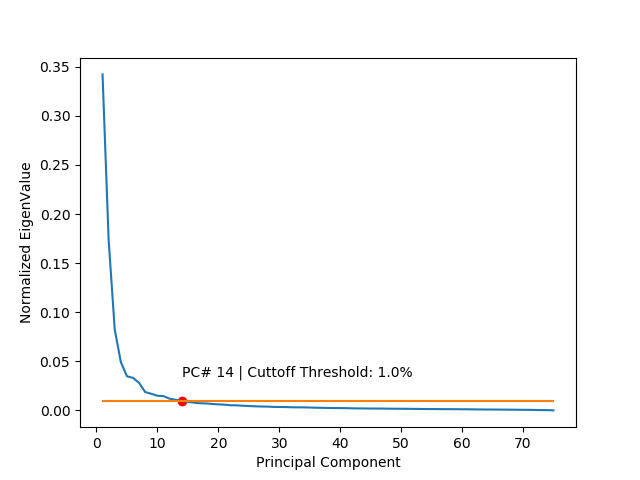
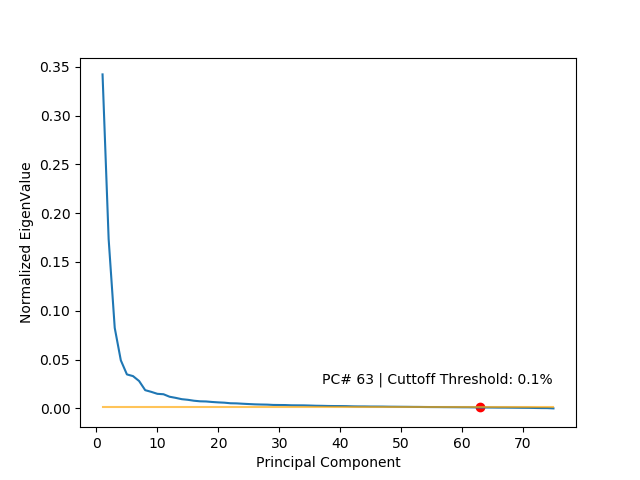
EigenFace reconstruction done, classification left

diff --git a/src/lib/EigenFaces/eigenfaces.py b/src/lib/EigenFaces/eigenfaces.py
@@ -38,7 +38,17 @@ def normalize_image(image):
 
     return np.asarray(normalized_img)
 
-def generate_PCA_Dimensionality_Estimation(data):
+def save_top5_eigenfaces(eigenfaces):
+    for i in range (0, 5):
+        plt.figure()
+        eigenfacetemp = normalize_image(eigenfaces[i])
+        eigenfacetemp = eigenfacetemp.reshape(256, 256, 3)
+        plt.imshow(eigenfacetemp)
+        plt.xticks([])
+        plt.yticks([])
+        plt.savefig("EigenFace"+str(i+1)+".png", transparent=True)
+
+def generate_PCA_Dimensionality_Estimation(data, threshold=0.001):
 
     pca = PCA(n_components=data.shape[0])
     pca.fit(data)
@@ -47,7 +57,7 @@ def generate_PCA_Dimensionality_Estimation(data):
     eigenvalue_eigenvector.sort(key=lambda x: x[1], reverse=True)
 
     idx = 0
-    cutoff_threshold = 0.01  # 1% cuttoff threshold
+    cutoff_threshold = threshold  # 0.1% cuttoff threshold
     for vals in eigenvalue_eigenvector:
         idx += 1
         if vals[2] < cutoff_threshold:
@@ -65,17 +75,19 @@ def generate_PCA_Dimensionality_Estimation(data):
     plt.plot(np.linspace(1, data.shape[0], num=data.shape[0]), pca.explained_variance_ratio_)
 
     plt.plot(np.linspace(1, data.shape[0], num=data.shape[0]),
-             np.linspace(cutoff_threshold, cutoff_threshold, num=data.shape[0]))
+             np.linspace(cutoff_threshold, cutoff_threshold, num=data.shape[0]), alpha=0.65, color='orange')
     plt.scatter(idx, cutoff_threshold, color='red')
-    plt.text(idx, cutoff_threshold + 0.025,
+    plt.text(int(data.shape[0]/2), cutoff_threshold + 0.025,
              s="PC# " + str(idx) + " | Cuttoff Threshold: " + str(cutoff_threshold * 100) + "%")
     plt.savefig('Individual-Variance.png')
+    plt.close()
 
     return idx
 
 
 if __name__ == "__main__":
 
+    # load data
     data = data_loader.get_data(isCropped=False)
 
     X_train = data[0]
@@ -91,20 +103,70 @@ if __name__ == "__main__":
     X_train_flat = flatten_and_gscale(X_train)
     X_test_flat  = flatten_and_gscale(X_test)
 
+    # get a dimensionality estimation
     optimal_dims = generate_PCA_Dimensionality_Estimation(X_train_flat)
 
-   # pca = PCA(n_components=optimal_dims)
-    #pca.fit(data)
+    # run PCA with the optimal number of dimensions
+    pca = PCA(n_components=optimal_dims)
+    # fit our data
+    pca.fit(X_train_flat)
 
-    #eigenvalue_eigenvector = list(zip(pca.components_, pca.explained_variance_, pca.explained_variance_ratio_))
-    #eigenvalue_eigenvector.sort(key=lambda x: x[1], reverse=True)
+    # sort eigenvectors by eigenvalue
+    eigenvalue_eigenvector = list(zip(pca.components_, pca.explained_variance_, pca.explained_variance_ratio_))
+    eigenvalue_eigenvector.sort(key=lambda x: x[1], reverse=True)
 
-    # print(eigenspaceData.shape)
-    # print(np.shape(eigenspaceData))
+    # separate them
+    eigenvectors = np.asarray([x[0] for x in eigenvalue_eigenvector])
+    eigenvalues  = np.asarray([x[1] for x in eigenvalue_eigenvector])
+
+    # save the top 5 eigen faces
+    save_top5_eigenfaces(eigenvectors)
+
+    # get the mean face
+    mean_face = pca.mean_
+
+
+    # testing eigenface reconstruction with one image
+    eigenImages = pca.transform(X_test_flat)
+    firstimage = eigenImages[0]
+    testimg = X_test_flat[0] - mean_face
+    testimg = np.dot(testimg.T, eigenvectors.T)
+
+    reconstruction = 0
+    for eigenF, eigenW in zip(eigenvectors, testimg):
+        reconstruction += eigenF*eigenW
+    reconstruction = mean_face + reconstruction
+
+    reconstruction = normalize_image(reconstruction)
+    reconstruction = reconstruction.reshape(256, 256, 3)
+
+    cv2.imshow("init", X_test[0])
+    cv2.imshow("reconstruction", reconstruction)
+    cv2.waitKey(0)
+
+
+
+
+    #testimg = X_train_flat[0] - mean_face
+    #testimg = np.dot(testimg.T, eigenvectors.T)
+
+    #testimg = testimg.reshape(32, 32)
+   #plt.imshow(testimg)
+   # plt.show()
+    #print(testimg.shape)
+    #testimg = normalize_image(testimg)
+    #plt.imshow(testimg)
+    #plt.show()
+
+    # print(np.shape(X_test_flat))
+    # print(eigenvectors.shape)
+    # print(eigenvalues.shape)
+    # print(mean_face.shape)
+    # print(eigenvalue_eigenvector[0][0].shape)
+    #
     # print(np.shape(pca.mean_))
     # print(np.shape(pca.components_))
     # print(np.shape(pca.explained_variance_))
-    # print(eigenVecs)
 
 
 
